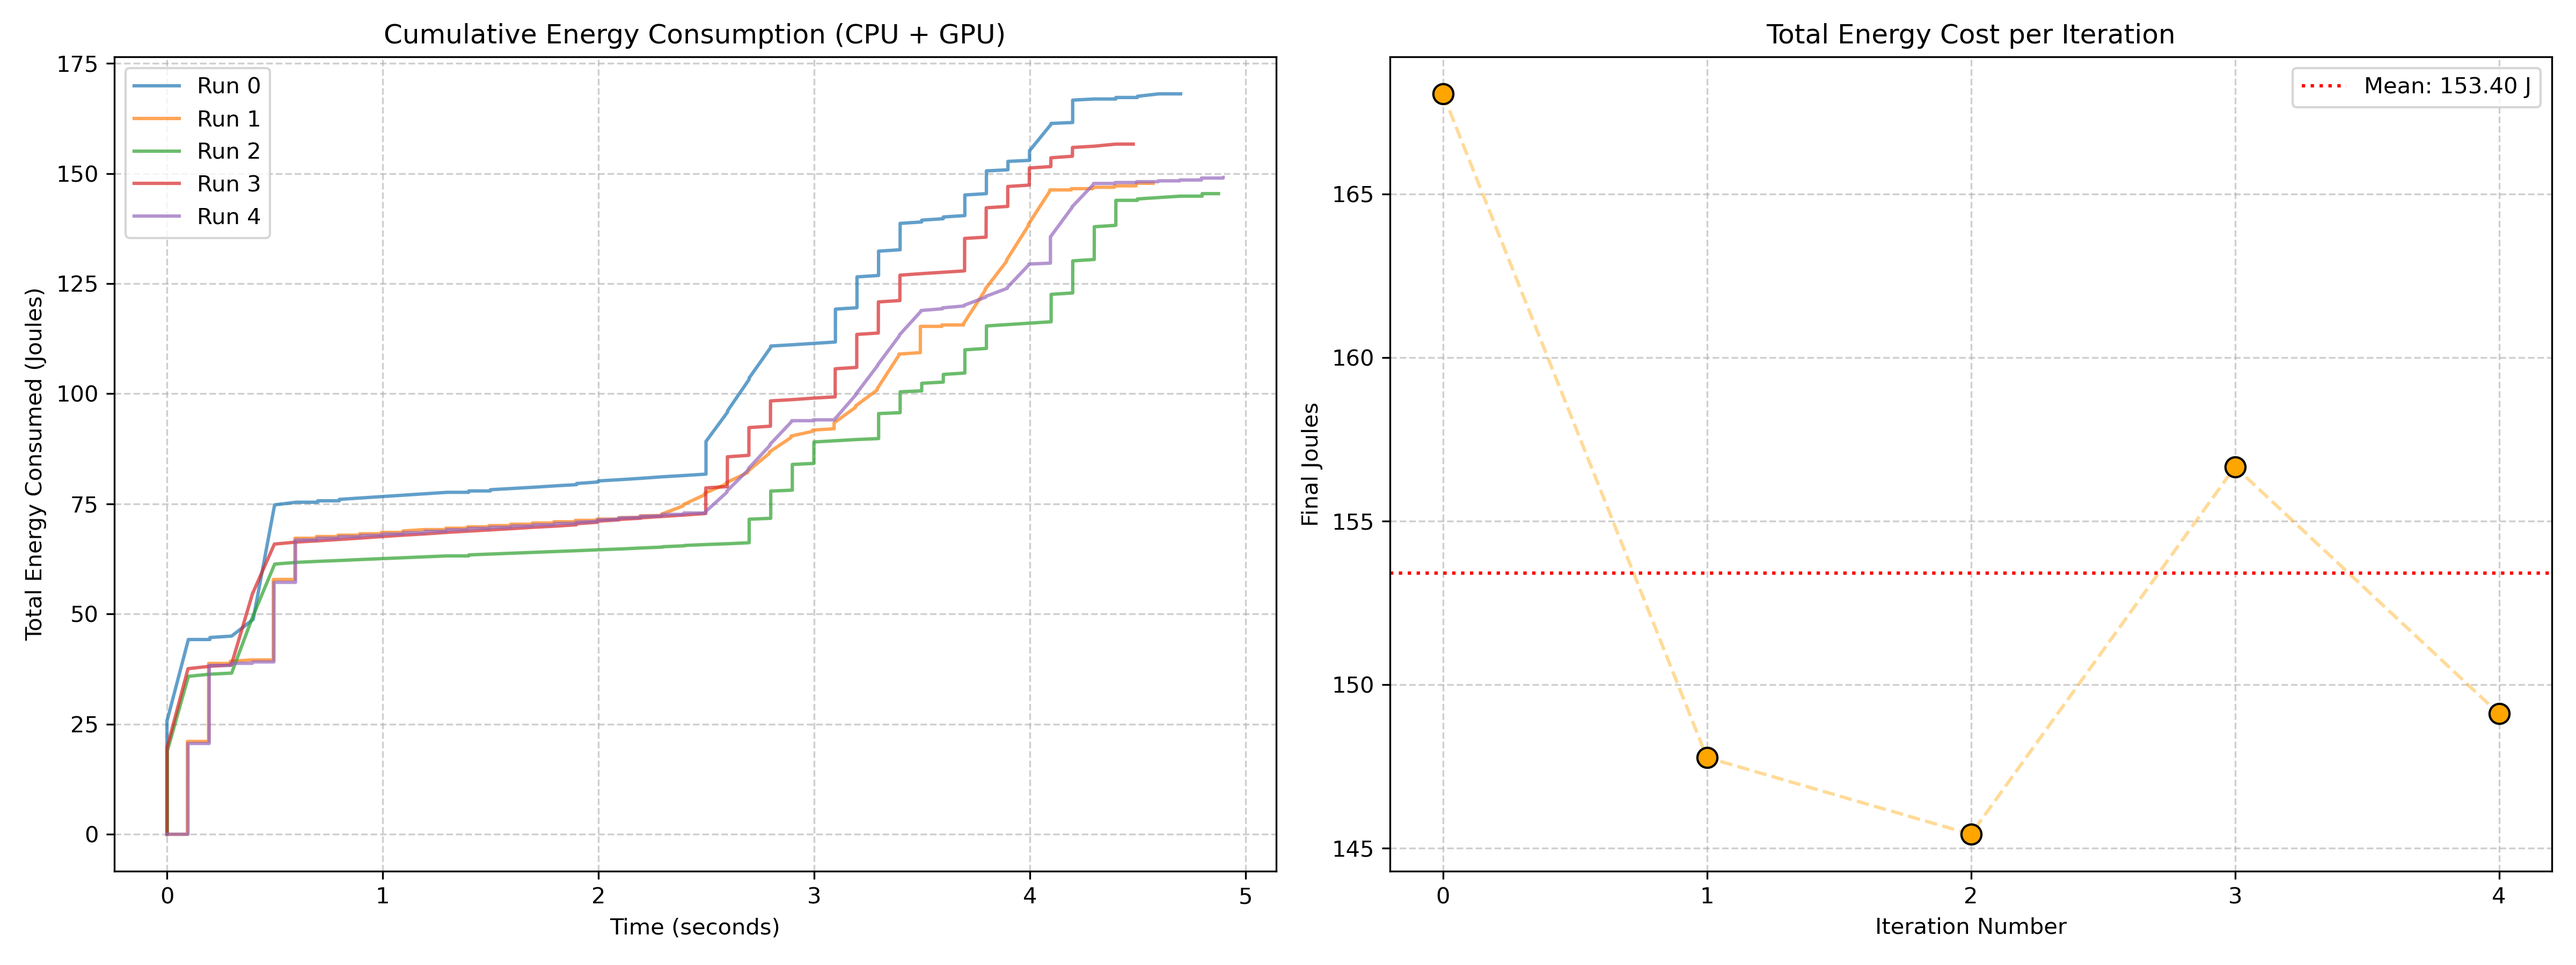
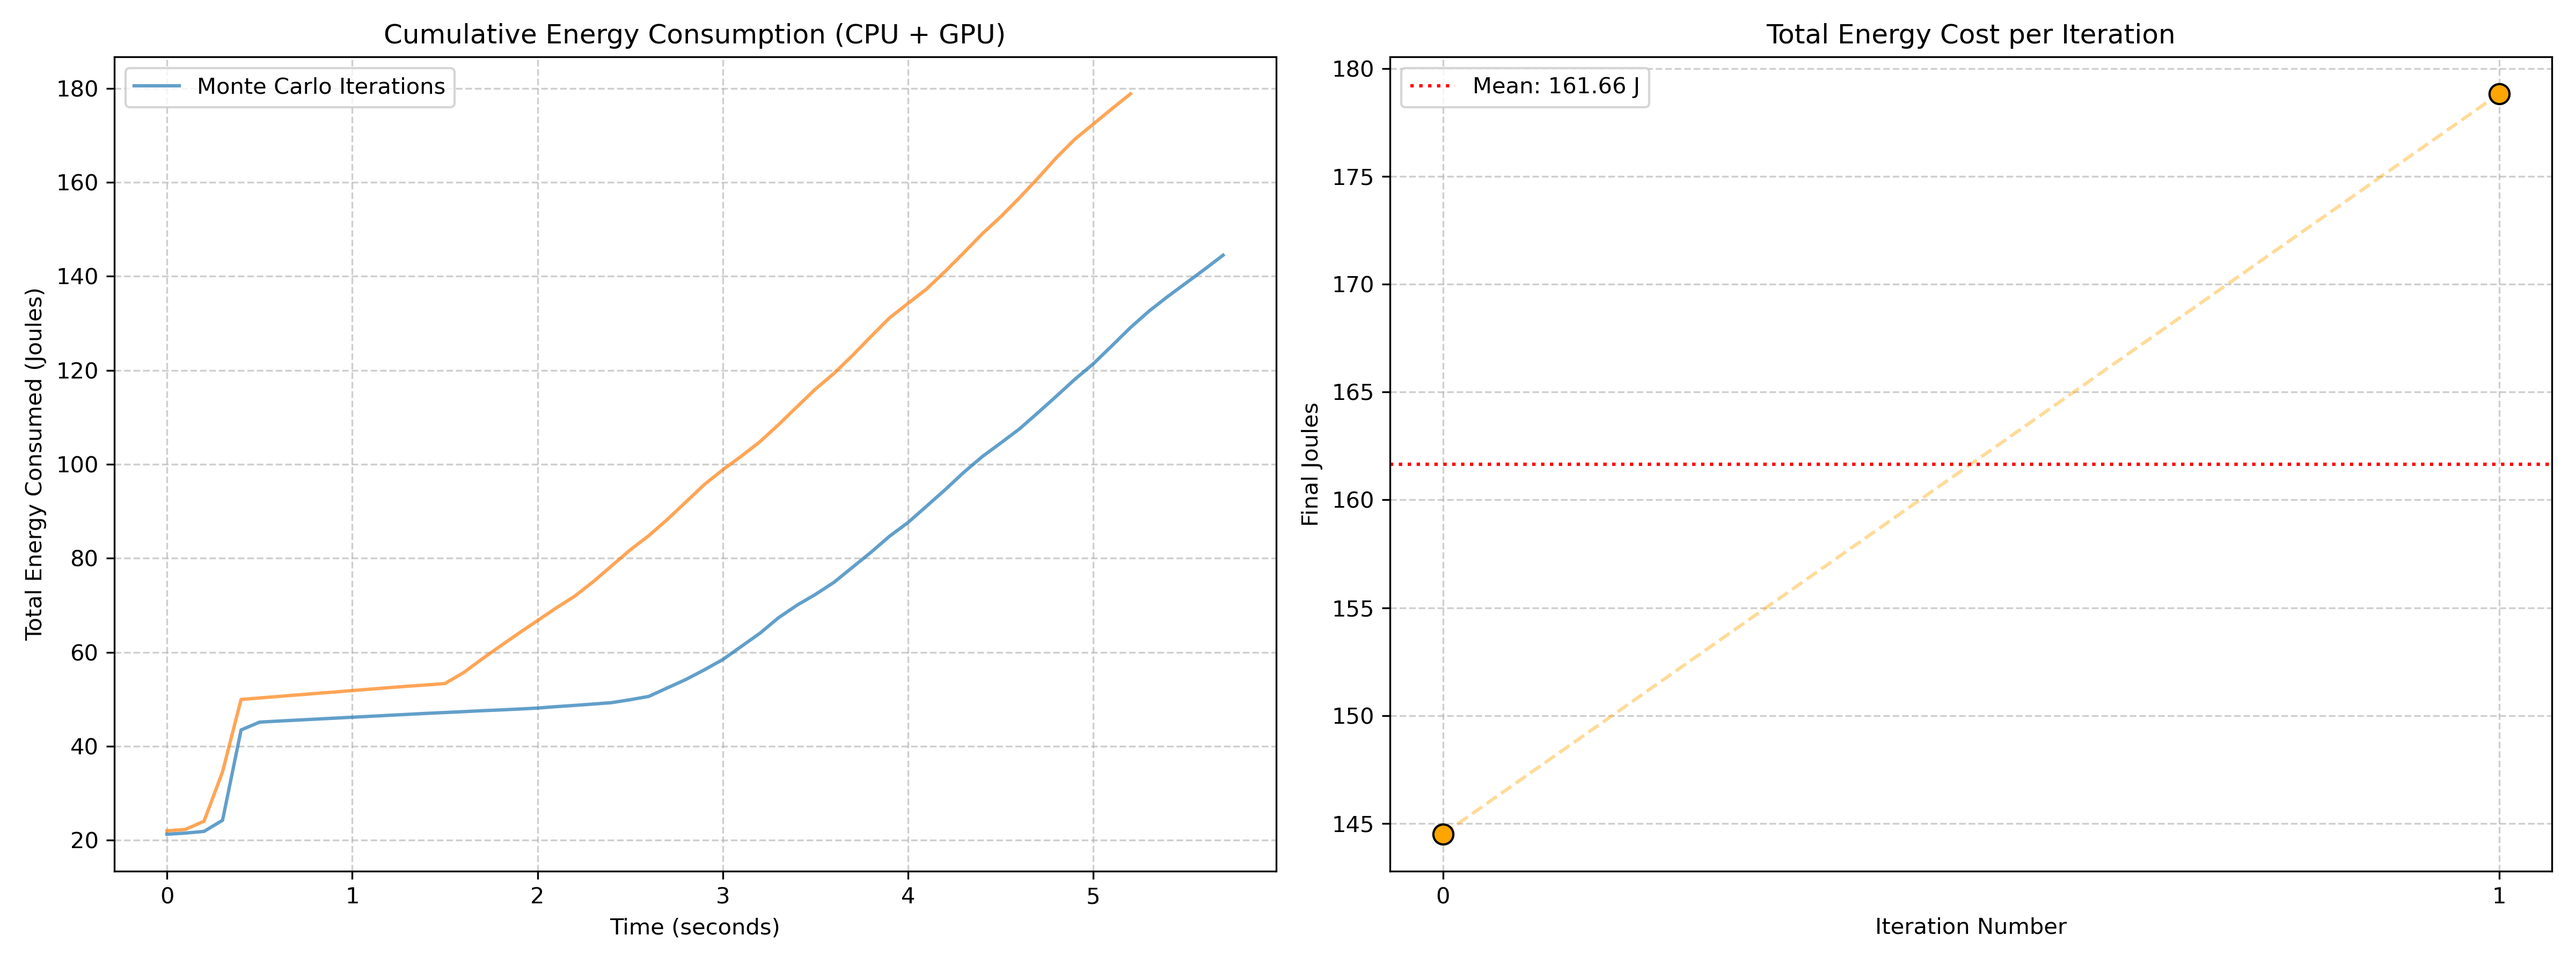
Add config.yml file

diff --git a/scripts/analyze_ensemble.py b/scripts/analyze_ensemble.py
@@ -2,77 +2,118 @@ import pandas as pd
 import numpy as np
 import matplotlib.pyplot as plt
 import os
+import yaml
 
-iterations = 5
+
+def _align_cumulative_energy_to_timeline(df_metric: pd.DataFrame, timeline: pd.DatetimeIndex, value_name: str) -> pd.Series:
+    
+    if df_metric.empty:
+        return pd.Series(0.0, index=timeline, name=value_name)
+
+    aligned = (
+        df_metric.groupby("timestamp", as_index=True)["value"]
+        .sum()
+        .sort_index()
+        .reindex(timeline)
+        .astype(float)
+    )
+
+    first_valid = aligned.first_valid_index()
+    if first_valid is None:
+        return pd.Series(0.0, index=timeline, name=value_name)
+
+    aligned.loc[aligned.index < first_valid] = 0.0
+    aligned = aligned.interpolate(method="time", limit_area="inside")
+    aligned = aligned.fillna(0.0)
+    
+    last_valid = df_metric["timestamp"].max()
+    aligned.loc[aligned.index > last_valid] = np.nan
+    aligned.name = value_name
+    return aligned
+
+# ================================================
+
+config_file = 'config.yml'
+if not os.path.exists(config_file):
+    raise FileNotFoundError(f"Configuration file {config_file} not found!")
+
+with open(config_file, 'r') as file:
+    cfg = yaml.safe_load(file)
+
+iterations = cfg['monte_carlo']['iterations']
 energy_results = []
 
-# Create a figure with two side-by-side subplots
 fig, (ax1, ax2) = plt.subplots(1, 2, figsize=(16, 6))
-
 print("--- Ensemble Total Energy Analysis (CPU + GPU) ---")
 
 for i in range(iterations):
     filename = f'results_iter_{i}.csv'
     
     if not os.path.exists(filename):
-        print(f"Skipping {filename} - File not found.")
         continue
         
     df = pd.read_csv(filename, sep=';')
     
-    # 1. Extract the Joules from Alumet
-    df_gpu_raw = df[df['metric'].str.contains('attributed_energy_gpu', na=False)][['timestamp', 'value']]
-    df_cpu = df[df['metric'].str.contains('attributed_energy_cpu', na=False)][['timestamp', 'value']].rename(columns={'value': 'cpu_joules'})
+    # 1. Extract Joules & Isolate the Process
+    df_gpu_raw = df[(df['metric'].str.contains('attributed_energy_gpu', na=False)) & (df['consumer_kind'] == 'process')]
+    df_cpu_raw = df[(df['metric'].str.contains('attributed_energy_cpu', na=False)) & (df['consumer_kind'] == 'process')]
     
-    if df_gpu_raw.empty or df_cpu.empty:
+    if df_gpu_raw.empty or df_cpu_raw.empty:
         print(f"Iteration {i}: Missing CPU or GPU data.")
         continue
 
-    # 2. Format Time and Sort
-    df_gpu_raw['timestamp'] = pd.to_datetime(df_gpu_raw['timestamp'])
-    df_cpu['timestamp'] = pd.to_datetime(df_cpu['timestamp'])
+    target_pid = df_gpu_raw['consumer_id'].mode()[0]
     
-    # Squash the 4 GPU rows per timestamp into a single unified GPU reading
-    df_gpu = df_gpu_raw.groupby('timestamp', as_index=False).sum().rename(columns={'value': 'gpu_joules'})
+    df_gpu_raw = df_gpu_raw[df_gpu_raw['consumer_id'] == target_pid][['timestamp', 'value']]
+    df_cpu_raw = df_cpu_raw[df_cpu_raw['consumer_id'] == target_pid][['timestamp', 'value']]
+
+    # 2. Format Time
+    df_gpu_raw['timestamp'] = pd.to_datetime(df_gpu_raw['timestamp']).dt.floor('100ms')
+    df_cpu_raw['timestamp'] = pd.to_datetime(df_cpu_raw['timestamp']).dt.floor('100ms')
+    
+    # 3. Squash Duplicates
+    df_gpu = df_gpu_raw.groupby('timestamp', as_index=False).sum()
+    df_cpu = df_cpu_raw.groupby('timestamp', as_index=False).sum()
 
     df_gpu = df_gpu.sort_values('timestamp')
     df_cpu = df_cpu.sort_values('timestamp')
 
-    # 3. Cumulative Energy Calculation
-    # Calculate the running total while timelines are still independent
-    df_gpu['gpu_cum'] = df_gpu['gpu_joules'].cumsum()
-    df_cpu['cpu_cum'] = df_cpu['cpu_joules'].cumsum()
+    # 4. Cumulative Energy Calculation
+    df_gpu['value'] = df_gpu['value'].cumsum()
+    df_cpu['value'] = df_cpu['value'].cumsum()
 
-    # Set timestamps as the index for alignment
-    df_gpu.set_index('timestamp', inplace=True)
-    df_cpu.set_index('timestamp', inplace=True)
-
-    # Perform an Outer Join (Union) on the cumulative columns
-    df_merged = df_cpu[['cpu_cum']].join(df_gpu[['gpu_cum']], how='outer')
+    # 5. Timeline allignment
+    timeline = pd.DatetimeIndex(
+        pd.Index(df_cpu["timestamp"]).union(pd.Index(df_gpu["timestamp"])).sort_values()
+    )
     
-    # Forward-fill the running totals
-    # Then fill early NaNs with 0
-    df_merged = df_merged.ffill().fillna(0)
+    if timeline.empty:
+        continue
 
-    # Reset index to get the 'timestamp' column back for plotting
-    df_merged = df_merged.reset_index()
+    cpu_aligned = _align_cumulative_energy_to_timeline(df_cpu, timeline, "cpu_cum")
+    gpu_aligned = _align_cumulative_energy_to_timeline(df_gpu, timeline, "gpu_cum")
 
-    # 4. Final Energy Calculation
-    # The total bill is the sum of the two running totals at any given microsecond
+    df_merged = pd.DataFrame({
+        "timestamp": timeline,
+        "cpu_cum": cpu_aligned.to_numpy(),
+        "gpu_cum": gpu_aligned.to_numpy(),
+    })
+    
+    df_merged.dropna(subset=["cpu_cum", "gpu_cum"], inplace=True)
+
+    # 6. Final Energy Calculation
     df_merged['cum_energy'] = df_merged['cpu_cum'] + df_merged['gpu_cum']
     
-    # Record final total for stats
     run_total = df_merged['cum_energy'].iloc[-1]
+    cpu_total = df_merged['cpu_cum'].iloc[-1]
+    gpu_total = df_merged['gpu_cum'].iloc[-1]
     energy_results.append(run_total)
 
-    # 5. Time alignment for X-axis
     df_merged['time_sec'] = (df_merged['timestamp'] - df_merged['timestamp'].iloc[0]).dt.total_seconds()
     
-    print(f"Iteration {i}: {run_total:.2f} Total Joules (Duration: {df_merged['time_sec'].iloc[-1]:.2f}s)")
-    
-    # Plot 1: Energy Curve
-    ax1.plot(df_merged['time_sec'], df_merged['cum_energy'], alpha=0.7, linewidth=1.5, label=f'Run {i}')
-
+    print(f"Iteration {i}: {run_total:.2f} Total J [CPU: {cpu_total:.2f} J | GPU: {gpu_total:.2f} J] (Duration: {df_merged['time_sec'].iloc[-1]:.2f}s)")
+    line_label = 'Monte Carlo Iterations' if i == 0 else None
+    ax1.plot(df_merged['time_sec'], df_merged['cum_energy'], alpha=0.7, linewidth=1.5, label=line_label)
 # --- Finalize Subplot 1: Cumulative Energy vs Time ---
 ax1.set_title("Cumulative Energy Consumption (CPU + GPU)")
 ax1.set_xlabel("Time (seconds)")

diff --git a/scripts/gaia_flood_test.py b/scripts/gaia_flood_test.py
@@ -1,42 +1,86 @@
+import argparse
 import os
 import numpy as np
 import pandas as pd
+import yaml
 from synxflow import IO, flood
 from synxflow.IO.demo_functions import get_sample_data
 
+# --- 0. Parse Command Line Arguments ---
+parser = argparse.ArgumentParser(description="Run SynXFlow Flood Simulation")
+parser.add_argument('--dem', type=str, default=None, help='Path to the DEM file to use')
+parser.add_argument('--config', type=str, default='config.yml', help='Path to the YAML config file')
+args = parser.parse_args()
+
+if not os.path.exists(args.config):
+    raise FileNotFoundError(f"Configuration file {args.config} not found!")
+
+with open(args.config, 'r') as file:
+    cfg = yaml.safe_load(file)
+
+# --- Helper Function for File Routing ---
+def resolve_path(config_value, demo_filename):
+    """Returns the custom path, or the SynXFlow demo path if set to 'demo'."""
+    if config_value == 'demo':
+        _, _, data_path = get_sample_data()
+        return os.path.join(data_path, demo_filename)
+    return config_value
+
 # 1. Setup Data Paths
-dem_file, demo_data, data_path = get_sample_data()
-DEM = IO.Raster(os.path.join(data_path, 'DEM.gz'))
+# Check if the orchestrator passed a custom noisy DEM.
+if args.dem and os.path.exists(args.dem):
+    target_dem_path = args.dem
+    print(f"Loading NOISY DEM: {target_dem_path}")
+else:
+    target_dem_path = resolve_path(cfg['files']['baseline_dem'], 'DEM.gz')
+    print(f"Loading BASELINE DEM: {target_dem_path}")
+
+DEM = IO.Raster(target_dem_path)
+
+current_mean = np.nanmean(DEM.array)
+print(f"--> VERIFICATION: Map loaded successfully.")
+print(f"--> VERIFICATION: Mean Elevation is {current_mean:.6f} meters")
+
 case_folder = os.path.join(os.getcwd(), 'gaia_flood_case')
 case_input = IO.InputModel(DEM, num_of_sections=1, case_folder=case_folder)
 
 # 2. Add Water Sources (Discharge and Rain)
-box_upstream = np.array([[1427, 195], [1446, 243]])
-box_downstream = np.array([[58, 1645], [72, 1170]])
-discharge_values = np.array([[0, 100], [3600, 100]]) 
+box_upstream = np.array(cfg['boundaries']['box_upstream'])
+box_downstream = np.array(cfg['boundaries']['box_downstream'])
+discharge_values = np.array(cfg['boundaries']['discharge_values'])
+downstream_h = np.array(cfg['boundaries']['downstream_h'])
+
 bound_list = [
     {'polyPoints': box_upstream, 'type': 'open', 'hU': discharge_values},
-    {'polyPoints': box_downstream, 'type': 'open', 'h': np.array([[0, 5], [3600, 5]])}
+    {'polyPoints': box_downstream, 'type': 'open', 'h': downstream_h}
 ]
 case_input.set_boundary_condition(boundary_list=bound_list)
 
-rain_mask = IO.Raster(os.path.join(data_path, 'rain_mask.gz'))
-rain_source = pd.read_csv(os.path.join(data_path, 'rain_source.csv'), header=None).to_numpy()
+# Resolve and load the rain files
+rain_mask_path = resolve_path(cfg['files']['rain_mask'], 'rain_mask.gz')
+rain_source_path = resolve_path(cfg['files']['rain_source'], 'rain_source.csv')
+
+rain_mask = IO.Raster(rain_mask_path)
+rain_source = pd.read_csv(rain_source_path, header=None).to_numpy()
 case_input.set_rainfall(rain_mask=rain_mask, rain_source=rain_source)
 
 # 3. Add Friction
-landcover = IO.Raster(os.path.join(data_path, 'landcover.gz'))
+# Resolve and load the landcover file
+landcover_path = resolve_path(cfg['files']['landcover'], 'landcover.gz')
+landcover = IO.Raster(landcover_path)
+
 case_input.set_landcover(landcover)
 case_input.set_grid_parameter(manning={
-    'param_value': [0.035, 0.055], 
-    'land_value': [0, 1], 
-    'default_value': 0.035
+    'param_value': cfg['friction']['param_value'], 
+    'land_value': cfg['friction']['land_value'], 
+    'default_value': cfg['friction']['default_value']
 })
 
 # 4. Settings and Execution
-case_input.set_initial_condition('h0', 0.0)
-case_input.set_gauges_position(np.array([[560, 1030], [1140, 330]]))
-case_input.set_runtime([0, 3600, 600, 1200]) # 1-hour simulation
+# Pull simulation settings from the YAML config
+case_input.set_initial_condition('h0', cfg['settings']['h0'])
+case_input.set_gauges_position(np.array(cfg['settings']['gauges_position']))
+case_input.set_runtime(cfg['settings']['runtime'])
 
 print("Writing files and starting GPU simulation...")
 case_input.write_input_files()

diff --git a/scripts/monte_carlo.py b/scripts/monte_carlo.py
@@ -1,15 +1,24 @@
 import numpy as np
 import os
 import subprocess
+import yaml
 import multiprocessing
 import re
 from synxflow import IO
 from synxflow.IO.demo_functions import get_sample_data
 
-# --- Research Parameters ---
-iterations = 5
-std_dev = 0.5
-log_filename = 'alumet_execution.log'
+# --- Load Configuration ---
+config_file = 'config.yml'
+if not os.path.exists(config_file):
+    raise FileNotFoundError(f"Configuration file {config_file} not found!")
+
+with open(config_file, 'r') as file:
+    cfg = yaml.safe_load(file)
+
+# --- Research Parameters (from YAML) ---
+iterations = cfg['monte_carlo']['iterations']
+std_dev = cfg['monte_carlo']['std_dev']
+log_filename = cfg['monte_carlo']['log_filename']
 
 # 0. Clean up the old log file before starting a new ensemble
 if os.path.exists(log_filename):
@@ -17,27 +26,34 @@ if os.path.exists(log_filename):
 
 # --- Dynamic Hardware Detection ---
 detected_cores = multiprocessing.cpu_count()
-print(f"Hardware detected: {detected_cores} logical cores. Calibrating telemetry sensors...")
+print(f"Hardware detected: {detected_cores} logical cores. Calibrating telemetry...")
 
 config_path = 'alumet-config.toml'
-with open(config_path, 'r') as file:
-    config_text = file.read()
+if os.path.exists(config_path):
+    with open(config_path, 'r') as file:
+        config_text = file.read()
 
-# Inject the correct core count dynamically (targets the CPU expression specifically)
-dynamic_formula = f'expr = "cpu_energy * (cpu_usage / 100.0) / {detected_cores}.0"'
-config_text = re.sub(
-    r'expr = "cpu_energy \* [^"]+"', 
-    dynamic_formula, 
-    config_text
-)
+    # Safely inject the core count into the CPU formula only
+    dynamic_formula = f'expr = "cpu_energy * (cpu_usage / 100.0) / {detected_cores}.0"'
+    config_text = re.sub(r'expr\s*=\s*"cpu_energy[^"]+"', dynamic_formula, config_text)
 
-with open(config_path, 'w') as file:
-    file.write(config_text)
+    with open(config_path, 'w') as file:
+        file.write(config_text)
 # ----------------------------------
 
 # 1. Dynamically locate the pristine baseline map
-dem_file, demo_data, data_path = get_sample_data()
-base_dem_path = os.path.join(data_path, 'DEM.gz')
+base_dem_config = cfg['files']['baseline_dem']
+
+if base_dem_config == 'demo':
+    # Fallback to the SynXFlow built-in data
+    _, _, data_path = get_sample_data()
+    base_dem_path = os.path.join(data_path, 'DEM.gz')
+else:
+    # Use your custom file
+    base_dem_path = base_dem_config
+
+if not os.path.exists(base_dem_path):
+    raise FileNotFoundError(f"Baseline DEM not found at: {base_dem_path}")
 
 print(f"Starting Monte Carlo Ensemble: {iterations} runs, sigma={std_dev}m")
 
@@ -59,7 +75,7 @@ for i in range(iterations):
     dem.write(noisy_filename)
 
     # 4. Execute the Simulation & Measurement Pipeline
-    cmd = f"micromamba run -n env-model alumet-agent --config alumet-config.toml exec python scripts/gaia_flood_test.py --dem {noisy_filename} 2>&1 | tee -a {log_filename}"
+    cmd = f"micromamba run -n env-model alumet-agent --config alumet-config.toml exec python scripts/gaia_flood_test.py --dem {noisy_filename} --config {config_file} 2>&1 | tee -a {log_filename}"
     
     print(f"Executing: {cmd}")
     subprocess.run(cmd, shell=True)
